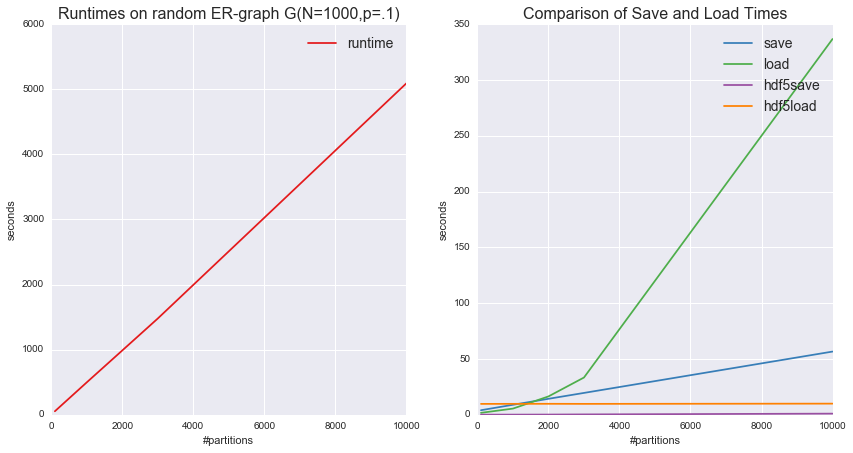
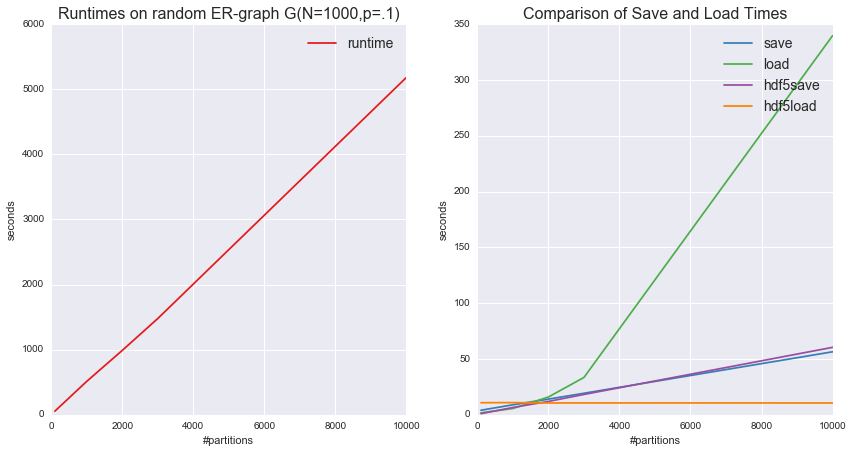
updated default compression level

diff --git a/champ/louvain_ext.py b/champ/louvain_ext.py
@@ -92,9 +92,9 @@ class PartitionEnsemble():
         self.numparts=0
         self.graph=graph
         self.min_com_size=min_com_size
-
+        self.maxpt=maxpt
         if listofparts!=None:
-            self.add_partitions(listofparts,maxpt=maxpt)
+            self.add_partitions(listofparts,maxpt=self.maxpt)
         self.name=name
 
 
@@ -384,7 +384,7 @@ class PartitionEnsemble():
                 assert self._check_lengths()
                 self.numparts=len(self.partitions)
             #update the pruned set
-        self.apply_CHAMP(maxpt=maxpt)
+        self.apply_CHAMP(maxpt=self.maxpt)
 
 
 
@@ -480,6 +480,7 @@ class PartitionEnsemble():
         :type maxpt: int
 
         '''
+
         self.ind2doms=get_intersection(self.get_coefficient_array(),max_pt=maxpt)
 
     def get_CHAMP_indices(self):
@@ -567,7 +568,7 @@ class PartitionEnsemble():
             self.graph.vs[attrib] = grph['node_attributes'][attrib][:]
 
 
-    def save(self,filename=None,dir=".",hdf5=None,compress=4):
+    def save(self,filename=None,dir=".",hdf5=None,compress=9):
         '''
         Use pickle or h5py to store representation of PartitionEnsemble in compressed file
 
@@ -578,6 +579,9 @@ class PartitionEnsemble():
         with the optimal subset.  If object has hdf5_file attribute saved \
         this becomes the default
         :type hdf5: bool
+        :param compress: Level of compression for partitions in hdf5 file.  With less compression, files take \
+        longer to write but take up more space.  9 is default.
+        :type compress: int [0,9]
         :param dir: directory to save graph in.  relative or absolute path.  default is working dir.
         :type dir: str
         '''
